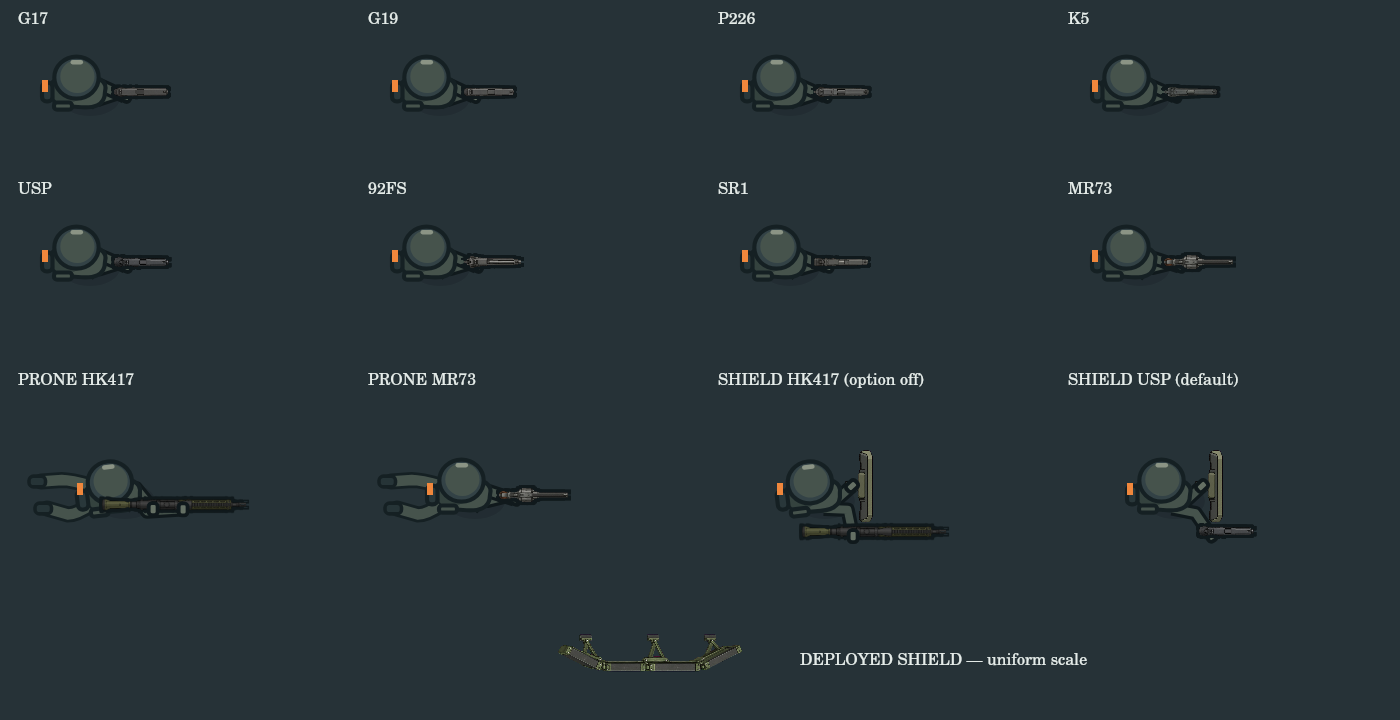
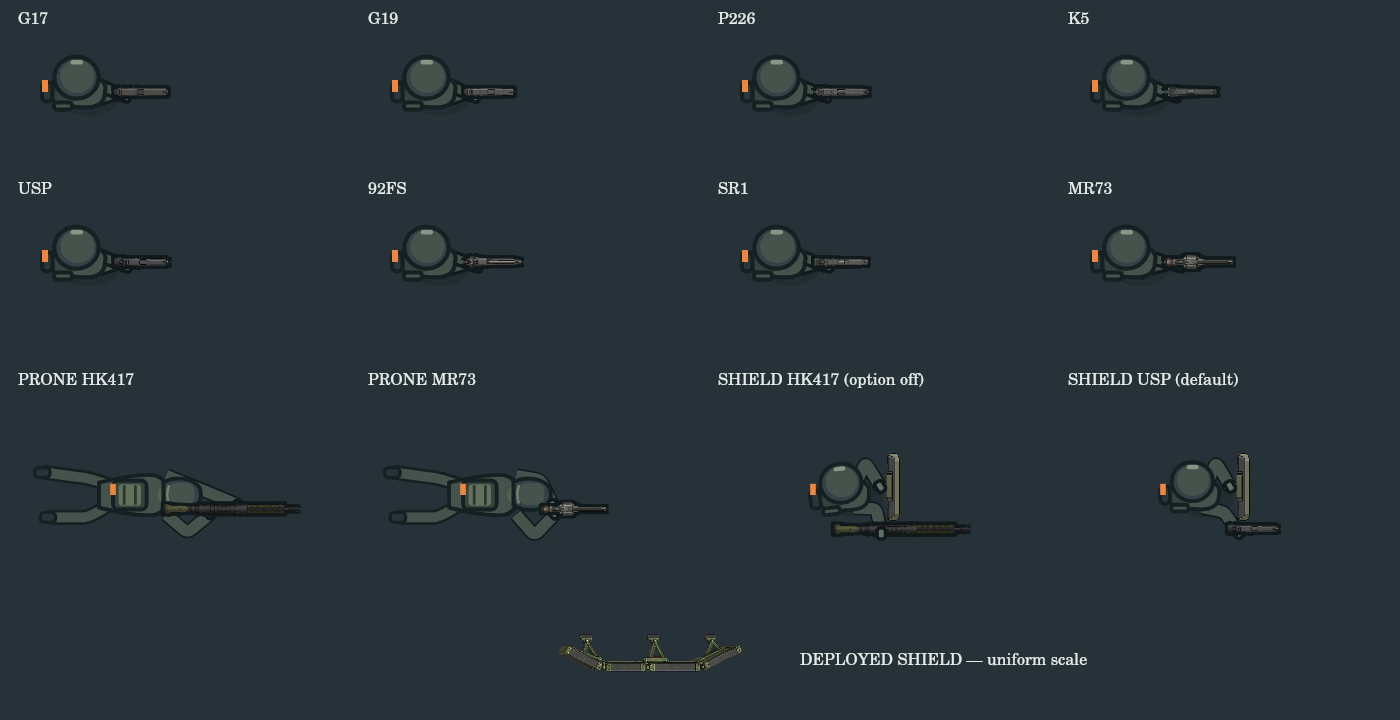
승인 포복·방패 자세를 게임에 도입하고 하부 파지 구현

diff --git a/artifacts/draft-order-player-generator/src/components/modularOperator.ts b/artifacts/draft-order-player-generator/src/components/modularOperator.ts
@@ -92,7 +92,12 @@ export function weaponMountPose(name:string):WeaponMountPose {
 /** 포복/방패의 표시용 장착. 총기 장착 기준은 유지하고 몸의 투영과 분리합니다. */
 export function equipmentMountPose(unit:RealtimeUnitState):WeaponMountPose {
   const mount=weaponMountPose(unit.weaponName??'');
-  if(unit.locomotion==='crawl')return mount;
+  if(unit.locomotion==='crawl'){
+    const stock={x:mount.kind==='pistol'?13:3,y:5},shift=(p:Point):Point=>({x:p.x+stock.x-mount.stock.x,y:p.y+stock.y-mount.stock.y});
+    return {...mount,stock,shoulderPocket:stock,muzzle:shift(mount.muzzle),triggerHand:shift(mount.triggerHand),
+      supportHand:{x:shift(mount.supportHand).x,y:stock.y-1.3},magazine:shift(mount.magazine),
+      triggerShoulder:{x:4,y:7},supportShoulder:{x:4,y:-7},torsoYaw:0};
+  }
   if(unit.shieldRaised){
     const shift=(p:Point):Point=>({x:p.x,y:p.y+(mount.kind==='pistol'?12:9)});
     return {...mount,stock:shift(mount.stock),muzzle:shift(mount.muzzle),triggerHand:shift(mount.triggerHand),magazine:shift(mount.magazine),supportHand:{...HANDHELD_SHIELD.hand}};
@@ -175,11 +180,14 @@ export function throwArmPose(progress:number):{elbow:Point;hand:Point}{
   return {elbow,hand:{x:elbow.x+Math.cos(b)*8,y:elbow.y+Math.sin(b)*8}};
 }
 
-function strokeArm(ctx:CanvasRenderingContext2D,pose:ArmPose,color:string):void {
+function strokeArm(ctx:CanvasRenderingContext2D,pose:ArmPose,color:string,smooth=false):void {
   // 어깨 끝의 둥근 선 마감이 몸 밖에 원처럼 드러나지 않게 소매 안에서 끊습니다.
-  ctx.lineCap='butt';ctx.lineJoin='round';ctx.strokeStyle='#10191C';ctx.lineWidth=4.8;
-  ctx.beginPath();ctx.moveTo(pose.shoulder.x,pose.shoulder.y);ctx.lineTo(pose.elbow.x,pose.elbow.y);ctx.lineTo(pose.hand.x,pose.hand.y);ctx.stroke();
-  ctx.strokeStyle=color;ctx.lineWidth=2.6;ctx.stroke();
+  ctx.lineCap='butt';ctx.lineJoin='round';ctx.strokeStyle='#10191C';ctx.lineWidth=smooth?5.2:4.8;
+  if(!smooth){ctx.beginPath();ctx.moveTo(pose.shoulder.x,pose.shoulder.y);ctx.lineTo(pose.elbow.x,pose.elbow.y);ctx.lineTo(pose.hand.x,pose.hand.y);ctx.stroke();ctx.strokeStyle=color;ctx.lineWidth=2.6;ctx.stroke();return;}
+  const before=mix(pose.shoulder,pose.elbow,.8),after=mix(pose.elbow,pose.hand,.2);
+  ctx.beginPath();ctx.moveTo(pose.shoulder.x,pose.shoulder.y);ctx.lineTo(before.x,before.y);
+  ctx.quadraticCurveTo(pose.elbow.x,pose.elbow.y,after.x,after.y);ctx.lineTo(pose.hand.x,pose.hand.y);ctx.stroke();
+  ctx.strokeStyle=color;ctx.lineWidth=4;ctx.stroke();
 }
 function hand(ctx:CanvasRenderingContext2D,point:Point,angle:number):void {
   ctx.save();ctx.translate(point.x,point.y);ctx.rotate(angle);ctx.fillStyle='#657064';ctx.strokeStyle='#10191C';ctx.lineWidth=1.3;ctx.beginPath();ctx.roundRect(-2,-1.5,4,3,1.1);ctx.fill();ctx.stroke();ctx.restore();
@@ -193,8 +201,8 @@ function paintLowerBody(ctx:CanvasRenderingContext2D,pose:OperatorAssemblyPose,t
   for(const side of [-1,1]){
     if(pose.prone){
       // 골반→굽힌 무릎→발목으로 이어지는 분절입니다. 납작한 서기 몸을 늘이지 않습니다.
-      const knee={x:side<0?-21:-19,y:side<0?-5:6.5},ankle={x:side<0?-28:-26,y:side*4.5};
-      ctx.beginPath();ctx.moveTo(-11,side*3);ctx.quadraticCurveTo(knee.x+3,knee.y,knee.x,knee.y);ctx.lineTo(ankle.x,ankle.y);
+      const knee={x:side<0?-28:-26,y:side<0?-6.5:8},ankle={x:side<0?-39:-37,y:side*8};
+      ctx.beginPath();ctx.moveTo(-17,side*3.8);ctx.quadraticCurveTo(knee.x+3,knee.y,knee.x,knee.y);ctx.lineTo(ankle.x,ankle.y);
       ctx.strokeStyle='#152023';ctx.lineWidth=5.4;ctx.stroke();ctx.strokeStyle=color;ctx.lineWidth=3.5;ctx.stroke();
       ctx.fillStyle='#263437';ctx.strokeStyle='#152023';ctx.lineWidth=1.2;ctx.beginPath();ctx.roundRect(ankle.x-4,ankle.y-1.8,5.5,3.6,1.5);ctx.fill();ctx.stroke();
     }else{
@@ -229,6 +237,26 @@ function paintHeadAndKit(ctx:CanvasRenderingContext2D,color:string,pack:number,t
   }
 }
 
+/** 승인 포복 시안의 전후 축: 골반→가슴→목→전방 헬멧. 서기 상체를 눌러 재사용하지 않습니다. */
+export const PRONE_BODY={hip:{x:-17,y:0},chest:{x:-4,y:0},neck:{x:3,y:0},head:{x:10,y:0},pack:{x:-9,y:0}} as const;
+function paintProneUpperBody(ctx:CanvasRenderingContext2D,color:string):void {
+  ctx.strokeStyle='#152023';ctx.lineWidth=1.4;ctx.fillStyle=color;
+  ctx.beginPath();ctx.moveTo(-20,-4.5);ctx.bezierCurveTo(-15,-5.5,-5,-8,0,-7);
+  ctx.quadraticCurveTo(4,-6,4,-2);ctx.lineTo(4,2);ctx.quadraticCurveTo(4,6,0,7);
+  ctx.bezierCurveTo(-7,8,-16,5.5,-20,4.5);ctx.closePath();ctx.fill();ctx.stroke();
+  // 배낭의 넓은 등판이 위를 향합니다. 서기용 뒤쪽 수직 사각형을 사용하지 않습니다.
+  ctx.fillStyle='#34443D';ctx.beginPath();ctx.roundRect(-15,-5.2,12,10.4,2);ctx.fill();ctx.stroke();
+  ctx.fillStyle='#62705C';ctx.beginPath();ctx.roundRect(-13,-3.8,8,7.6,1.2);ctx.fill();
+  ctx.strokeStyle='#29382F';ctx.lineWidth=1;ctx.beginPath();ctx.moveTo(-11,-3.5);ctx.lineTo(-11,3.5);ctx.moveTo(-7,-3.5);ctx.lineTo(-7,3.5);ctx.stroke();
+  ctx.fillStyle='#546151';ctx.beginPath();ctx.roundRect(1,-2.5,5,5,1.5);ctx.fill();
+  // 뒤통수에서 전방 이마까지 이어진 헬멧. 목과 머리가 어깨 앞에 있습니다.
+  ctx.strokeStyle='#152023';ctx.lineWidth=1.4;ctx.fillStyle='#334246';ctx.beginPath();
+  ctx.moveTo(3,-4.5);ctx.bezierCurveTo(7,-7,14,-6,16,-2.5);ctx.quadraticCurveTo(17,0,15.5,3.5);
+  ctx.bezierCurveTo(12,6,6,6,3,3.5);ctx.closePath();ctx.fill();ctx.stroke();
+  ctx.fillStyle=color;ctx.beginPath();ctx.roundRect(5,-4.3,9,7.8,2.7);ctx.fill();
+  ctx.strokeStyle='#73806C';ctx.lineWidth=.9;ctx.beginPath();ctx.moveTo(5,-3.5);ctx.quadraticCurveTo(3.8,0,5,3);ctx.stroke();
+}
+
 /**
  * 조립식 경기 캐릭터. 레이어 순서는 고정하고 하체·상체·무기·손을 독립 계산합니다.
  * 외형은 RealtimeUnitState를 읽기만 하며 성능·충돌·탄약을 수정하지 않습니다.
@@ -245,7 +273,7 @@ export function paintModularOperator(ctx:CanvasRenderingContext2D,unit:RealtimeU
   ctx.fillStyle='#04090C22';ctx.beginPath();ctx.ellipse(unit.position.x,unit.position.y+2,10,6,0,0,Math.PI*2);ctx.fill();
   ctx.translate(unit.position.x,unit.position.y);ctx.rotate(pose.upperFacing);
   paintLowerBody(ctx,pose,time,reducedMotion,kit.color,motion.frame);
-  if(down){ctx.save();paintTorso(ctx,kit.color);paintHeadAndKit(ctx,kit.color,kit.pack,kit.tool);ctx.restore();ctx.restore();return true;}
+  if(down){paintProneUpperBody(ctx,kit.color);ctx.restore();return true;}
   const mount=pose.weapon!;
   const throwProgress=reducedMotion?.6:Math.min(1,throwAge/.45);
   const gunStowed=installing||throwing,lower=installing?1:throwing?1-throwProgress:0;
@@ -255,18 +283,19 @@ export function paintModularOperator(ctx:CanvasRenderingContext2D,unit:RealtimeU
   const reach=reducedMotion?0:motion.frame?.reloadReach??reloadReach(unit,time,motion);
   if(reach>0&&!shielding)supportTarget=displaced(mix(mount.supportHand,mount.magazine,reach));
   if(installing){triggerTarget={x:8,y:5};supportTarget={x:9,y:-5};}
-  const triggerArm=solveArm(mount.triggerShoulder,triggerTarget,8,9,-1);
+  const triggerArm=solveArm(mount.triggerShoulder,triggerTarget,pose.prone?10:8,pose.prone?11:9,pose.prone?1:-1);
   // 방패 팔은 과도한 옆꺾임 없이 짧게 투영된 위팔·아래팔로 손잡이에 닿습니다.
-  let supportArm=solveArm(mount.supportShoulder,supportTarget,shielding?8:mount.kind==='pistol'?7+5*reach:12,shielding?10:mount.kind==='pistol'?8+4*reach:12,1);
+  let supportArm=solveArm(mount.supportShoulder,supportTarget,pose.prone?(mount.kind==='pistol'?9:['bolt','marksman'].includes(mount.kind)?14:16):shielding?8:mount.kind==='pistol'?7+5*reach:12,pose.prone?(mount.kind==='pistol'?10:['bolt','marksman'].includes(mount.kind)?14:16):shielding?10:mount.kind==='pistol'?8+4*reach:12,pose.prone||shielding?-1:1);
   if(throwing){const thrownPose=throwArmPose(throwProgress);supportArm={shoulder:mount.supportShoulder,elbow:thrownPose.elbow,hand:thrownPose.hand};}
-  strokeArm(ctx,supportArm,kit.color);strokeArm(ctx,triggerArm,kit.color);
+  strokeArm(ctx,supportArm,kit.color,pose.prone||shielding);strokeArm(ctx,triggerArm,kit.color,pose.prone||shielding);
   // 탑뷰에서 아래로 내려간 위팔은 흉곽/어깨 아래에 가립니다.
   // 손 접촉이 맞아도 팔 뿌리를 헬멧 위에 그리면 고리 모양의 기형이 됩니다.
-  ctx.save();ctx.rotate(mount.torsoYaw);paintTorso(ctx,kit.color);paintHeadAndKit(ctx,kit.color,kit.pack,kit.tool);ctx.restore();
+  if(pose.prone)paintProneUpperBody(ctx,kit.color);
+  else{ctx.save();ctx.rotate(mount.torsoYaw);paintTorso(ctx,kit.color);paintHeadAndKit(ctx,kit.color,kit.pack,kit.tool);ctx.restore();}
 
-  const pistolHands=mount.kind==='pistol'&&!gunStowed;
+  const pistolHands=(mount.kind==='pistol'||pose.prone)&&!gunStowed;
   const wristAngle=(arm:ArmPose)=>Math.atan2(arm.hand.y-arm.elbow.y,arm.hand.x-arm.elbow.x);
-  // 권총은 손잡이를 감싼 손 위에 원화를 얹어 슬라이드가 가려지지 않게 합니다.
+  // 포복 지지손은 핸드가드 아래에, 권총 손은 슬라이드 아래에 가립니다. 총 위에 장갑을 덮지 않습니다.
   if(pistolHands){hand(ctx,triggerTarget,wristAngle(triggerArm));if(!shielding)hand(ctx,supportTarget,wristAngle(supportArm));}
   ctx.save();ctx.translate(mount.muzzle.x+offset.x,mount.muzzle.y+offset.y);
   const weaponDrawn=paintWeaponPart(ctx,unit.weaponName??'',asset);ctx.restore();

diff --git a/docs/operator-equipment-current.md b/docs/operator-equipment-current.md
@@ -1,3 +1,11 @@
+> **최신: 승인 자세 게임 도입.** 사용자가 옆모습/탑뷰 포복·방패 자세를 승인하고, 탑뷰 지지손만 레일 하부로 수정해 게임 도입을 요청했다. 자세 원본은 `art-source/operator-poses/prone-shield-reference.webp`에 보존했다. 통짜 이미지로 캐릭터를 대체하지 않고 게임의 조립식 표현에 적용했다.
+>
+> 포복 전용 상체는 골반(-17)→가슴(-4)→목(3)→머리(10)의 전방 축을 갖는다. 배낭은 누운 등판 위에 놓이고 서기용 뒤쪽 수직 군장을 재사용하지 않는다. 일반 서기 체형과 총기 원화는 유지한다. 소총 개머리판을 목 옆에 정렬하고 오른손은 뒤쪽 손잡이, 왼손은 앞쪽 핸드가드 하부에 둔다. 양손→총기 순서로 그려 손바닥이 상부 레일을 덮지 않는다.
+>
+> 방패 지지팔의 굽힘 방향을 바꿔 왼팔 전체를 상단, 권총 오른팔 전체를 하단에 유지한다. 포복/방패 소매는 팔꿈치를 둥글게 잇는 곡선이며 일반 서기 소매는 기존 형태다. 팔 길이 검사는 실제 곡선의 관절 제어점과 손 접점을 검사한다. 포복 팔은 자세별 탑뷰 투영값으로 따로 계산한다. 보조무장 강제 정책·탄약·히트박스·시뮬레이션 발사 원점은 변경하지 않았다.
+>
+> 검증: 320개 장비/방향에서 하부 파지 그리기 순서, 앞쪽 지지손, 양팔 영역 분리, 곡선 관절·총구 접점 통과. 기존 총기 24개 표시 명령, 2,560방향/100장전 접점, 타입·빌드 통과. 빌드의 기존 큰 청크 경고 유지. 실제 브라우저는 실행하지 않았다. [게임 적용 렌더](../validation/approved-pose-game-adoption.png). 시안 자세 승인은 받았으나 게임식 단순화 결과의 새 미술 승인을 대신하지 않는다.
+
 > **최신: 원형 돌출·포복·방패·각진 체형 재작업.** 사용자가 기존 체형과 포복, 방패 자세를 반려하고 재설계를 요청했다. 이번 변경은 단순 축소가 아니다. 어깨 끝의 둥근 선 마감을 없애고 어깨를 흉곽 안으로 이동했다. 권총 지지팔은 7/8 투영으로 몸 가까이 접으며 장전 때 12/12까지 부드럽게 펼친다. 헬멧·몸통·장비를 완만한 곡선으로 바꿨다. 포복의 1.15×0.72 비등비 압축을 제거하고 골반→굽힌 무릎→군화 분절을 별도로 그린다.
 >
 > 방패 v3는 중앙 뒤쪽 손잡이와 완만한 직선 상단으로 새로 생성했다. 표시 손잡이 `(9,-3)`, 폭 24로 가슴 앞에 두고 권총은 오른쪽으로 내민다. 이전 머리 옆으로 들어 올린 자세와 곡선 방패 v2는 활성 경로에서 제외한다. REUSS의 보조무장 강제 옵션·탄약·발사 지연·히트박스·방어 판정은 그대로다.

diff --git a/docs/ART_APPROVED.md b/docs/ART_APPROVED.md
@@ -1,3 +1,5 @@
+> **승인 자세 도입:** 사용자 승인한 옆모습/탑뷰 포복·방패 시안을 기준으로 게임에 연결했다. 후속 요구인 핸드가드 하부 파지를 손→총기 레이어로 처리했다. [승인 시안 및 도입 기록](operator-equipment-current.md), [게임 적용본](../validation/approved-pose-game-adoption.png). 아래 반려 기록은 이전 코드 형태이며 승인된 자세 원본과 구분한다.
+
 > **최신 사용자 재설계 요청:** 몸 아래 원형 돌출, 포복, 방패, 각지고 눌린 체형을 반려했다. 머리·몸통·손 실루엣과 포복·방패 자세를 재작업했다. 아래 기존 외형 승인을 새 시안 승인으로 확대하지 않는다. 총기 원화·외형/판정 분리·브라우저 금지는 유지한다. [새 전후 비교](../validation/operator-shape-rework.png) · [변경 근거](operator-equipment-current.md).
 
 > **후속 체형 수정 요청:** 사용자가 “캐릭터 몸이 아직도 너무 뚱뚱”하다고 피드백해 몸통·군장·팔 두께를 축소했다. 기존 승인 중 머리·총기 크기·파지·C14 자세와 외형/성능 분리 계약은 유지한다. 새 체형은 사용자 확인 전이며 기존 전체 외형 승인으로 자동 승인하지 않는다. [전후 비교](../validation/operator-body-before-after.png).

diff --git a/docs/PROJECT_STATE.md b/docs/PROJECT_STATE.md
@@ -1,3 +1,5 @@
+> **최신 승인 자세 도입:** 포복 전용 수평 상체/전방 머리/누운 배낭, 레일 아래 지지손, 방패 양팔 비교차를 조립식 렌더러에 연결했다. [상태·검증](operator-equipment-current.md), [게임 적용 이미지](../validation/approved-pose-game-adoption.png). 브라우저 미실행. 다음 작업은 이 게임 적용본 검수 후 뽑기·수납 애니메이션이다.
+
 > **최신 재설계:** 원형 어깨 돌출 제거, 곡선형 헬멧/흉곽, 압축 없는 분절 포복, Ubisoft 방패 자료를 참고한 중앙 손잡이 방패 v3·가슴 앞 지지/오른쪽 권총 자세. [인수인계](operator-equipment-current.md), [전후 비교](../validation/operator-shape-rework.png). 새 시안 승인 전. 성능/히트박스·보조무장 강제 정책 유지, 브라우저 미실행.
 
 > **최신 체형 피드백:** 사용자의 몸통 비만감 지적에 따라 몸통 폭 약 31%, 군장 폭 25%와 팔 두께를 줄였다. 머리·총기·파지 유지. [전후 비교](../validation/operator-body-before-after.png). 새 체형 사용자 확인 전, 브라우저 미실행. 아래는 이전 기록이다.
